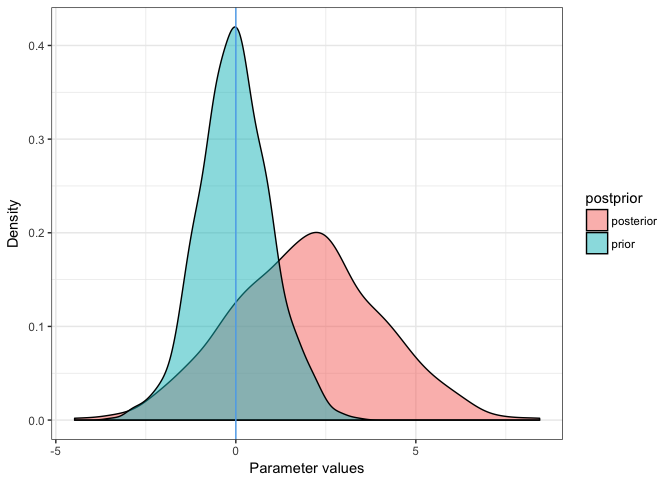
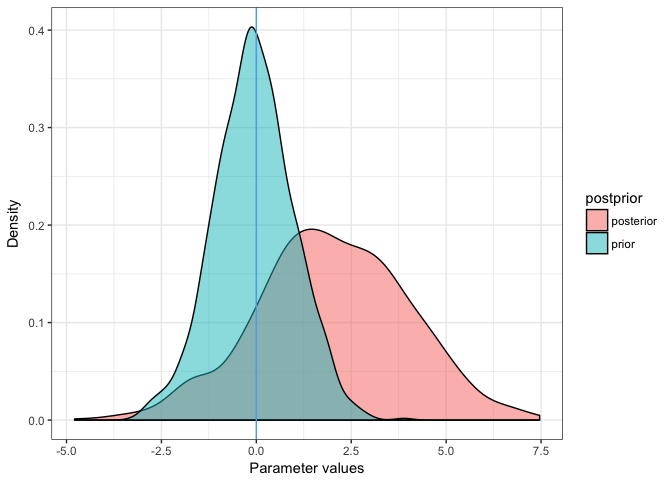
savage_dickey text

diff --git a/README.md b/README.md
@@ -277,7 +277,9 @@ rename_col(data,
 
 #### savage\_dickey
 
-Calculate Bayes factor from 2 distributions and (optionally) plot the the two distributions. Returns list with ggplot2 object, BF10, and BF01.
+Calculate Bayes factor from 2 distributions and plot the the two distributions.
+
+Returns list with ggplot2 object, BF10, and BF01.
 
 ``` r
 prior <- rnorm(1000, mean=0, sd=1)
@@ -286,10 +288,10 @@ posterior <- rnorm(1000, mean=2, sd=2)
 s_d <- savage_dickey(posterior, prior, Q = 0, plot = TRUE)
 
 s_d$BF10
-#> [1] 0.2587848
+#> [1] 0.3158816
 
 s_d$BF01
-#> [1] 3.864214
+#> [1] 3.165744
 
 s_d$post_prior_plot +
   theme_bw()
